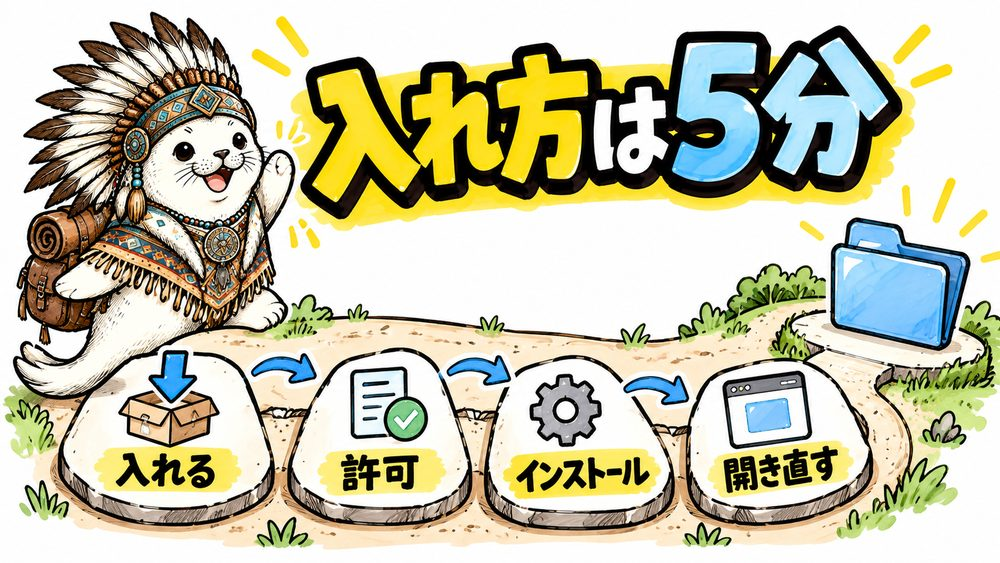
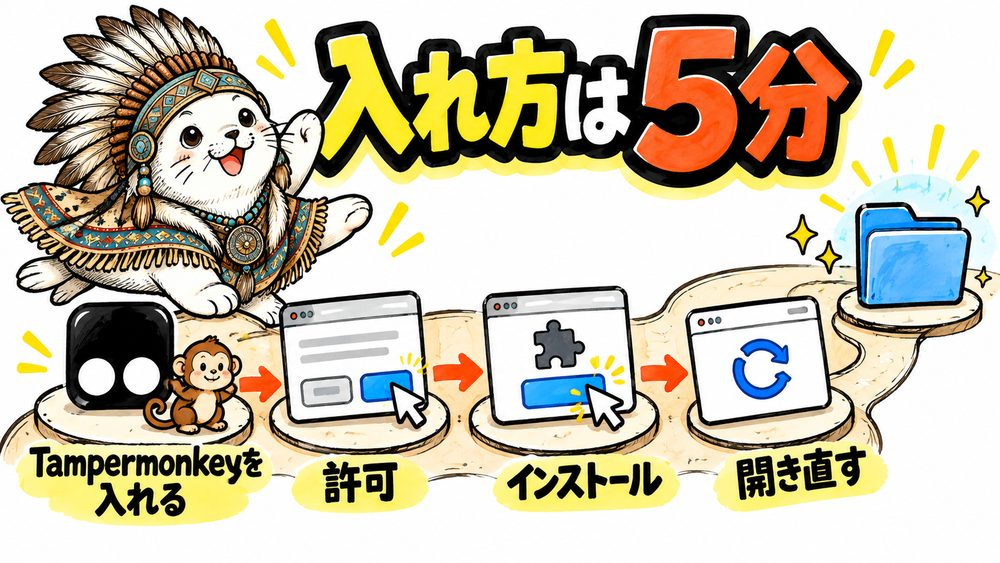
使い方ページ: ストア・詳細・更新ボタンの実写、できること4つの絵、Tampermonkey のロゴ入りの絵、ブラウザの更新の案内を足した

diff --git a/index.html b/index.html
@@ -43,6 +43,7 @@
   th { background: var(--bg); width: 34%; }
   .art { display: block; width: 100%; height: auto; border-radius: 12px; margin: 0 0 16px; }
   .art.top { margin: 20px 0 0; }
+  img.allow.wide { width: 640px; }
   img.allow { width: 380px; max-width: 100%; border: 1px solid var(--line); border-radius: 10px; margin: 8px 0 4px; }
   footer { color: var(--sub); font-size: 12px; text-align: center; padding: 20px 0 40px; }
 </style>
@@ -68,6 +69,7 @@
   <img class="art top" src="img/art_top.jpg" alt="参加チャットが一瞬で見つかる。チャットがフォルダーに吸い込まれていく絵">
   <section id="dekiru">
     <h2>✨ できること</h2>
+    <img class="art" src="img/art_dekiru.jpg" alt="できることは4つ。フォルダー分け・好きな順に並べる・通知の合計・カレンダー登録">
     <ul class="points">
       <li><b>📁 フォルダー分け</b>「AI関係」「地元」「学長・運営」のように、チャットをまとめて置けます</li>
       <li><b>↕ 好きな順に並べる</b>つかんで動かすだけ。フォルダーの順番も入れ替えられます</li>
@@ -79,13 +81,16 @@
   <section id="ireru">
     <h2>🧩 入れ方(5分)</h2>
     <img class="art" src="img/art_flow.jpg" alt="入れる・許可・インストール・開き直すの4手で5分">
-    <p>Chrome の拡張機能「Tampermonkey(タンパーモンキー)」の上で動きます。パソコンの Chrome で進めてください。</p>
+    <p>Chrome の拡張機能「🐒 Tampermonkey(タンパーモンキー)」の上で動きます。パソコンの Chrome で進めてください。</p>
     <ol class="steps">
-      <li><b>Tampermonkey を入れる</b><br>
+      <li><b>🐒 Tampermonkey を入れる</b><br>
+        Chrome ウェブストアは、Chrome に機能を足す「拡張機能」を配っている Google の公式のお店です。<br>
         <a class="btn blue" href="https://chromewebstore.google.com/detail/tampermonkey/dhdgffkkebhmkfjojejmpbldmpobfkfo" target="_blank" rel="noopener">Chrome ウェブストアの Tampermonkey を開く</a><br>
-        「Chrome に追加」を押します。もう入っている人は次へ。</li>
+        右上の青い「Chrome に追加」→「拡張機能を追加」を押します。もう入っている人は「Chrome から削除」と出ているので、次へ。<br>
+        <img class="allow wide" src="img/store.jpg" alt="Chrome ウェブストアの Tampermonkey のページ。右上の青いボタンを赤丸で示す"></li>
       <li><b>Tampermonkey に「ユーザースクリプト」を許可する</b><br>
-        Chrome のアドレス欄に <code>chrome://extensions</code> と入れて開き、Tampermonkey の「詳細」を押します。
+        Chrome のアドレス欄(画面の一番上の、URL が出ている所)に <code>chrome://extensions</code> と打って Enter。拡張機能の一覧で、Tampermonkey の「詳細」を押します。<br>
+        <img class="allow wide" src="img/ext_detail.jpg" alt="拡張機能の一覧。Tampermonkey の詳細ボタンを赤丸で示す"><br>
         「ユーザー スクリプトを許可する」をオンにします。<br>
         <img class="allow" src="img/allow.jpg" alt="Tampermonkey の詳細画面。ユーザー スクリプトを許可するのスイッチを赤丸で示す"><br>
         <span class="note">この項目が無い古い Chrome の場合は、右上の「デベロッパー モード」をオンにします。</span></li>
@@ -93,7 +98,7 @@
         <a class="btn" href="https://raw.githubusercontent.com/yubokumin28/libe-chat-folder/main/libe-chat-folder.user.js">リベ チャット フォルダーをインストール</a><br>
         Tampermonkey の画面が開くので「インストール」を押します。</li>
       <li><b>リベシティを開き直す</b><br>
-        「参加チャット」の一覧の上に、青い「＋ フォルダーを作る」が出たら完了です。</li>
+        リベシティをもう一度開くか、ブラウザの更新ボタン(アドレス欄の左の ↻。キーボードなら F5)を押します。「参加チャット」の一覧の上に、青い「＋ フォルダーを作る」が出たら完了です。</li>
     </ol>
     <p class="note">新しい版は Tampermonkey が自動で取りに来ます。作ったフォルダーは更新しても消えません。</p>
   </section>
@@ -174,7 +179,9 @@
     <h2>🙋 困った時</h2>
     <img class="art" src="img/art_tsumari.jpg" alt="よくある詰まりどころは、許可のし忘れと2つ入れたこと">
     <table>
-      <tr><th>「＋ フォルダーを作る」が出ない</th><td>入れ方の②「ユーザー スクリプトを許可する」がオンか確かめて、リベシティを開き直してください。</td></tr>
+      <tr><th>「＋ フォルダーを作る」が出ない</th><td>入れ方の②「ユーザー スクリプトを許可する」がオンか確かめて、リベシティの画面でブラウザの更新ボタン(↻)を押してください。</td></tr>
+      <tr><th>急に動かない・表示がおかしい</th><td>① <code>chrome://extensions</code> を開き、右上の「デベロッパー モード」をオン → 左上の「更新」を押す(拡張機能が新しい版に入れ替わります) ② リベシティに戻ってブラウザの更新ボタン(↻)を押す。<br>
+        <img class="allow wide" src="img/ext_update.jpg" alt="拡張機能の一覧の上。左上の更新ボタンと右上のデベロッパーモードを赤丸で示す"></td></tr>
       <tr><th>フォルダーに「あと◯件は未読み込み」と出る</th><td>一覧の下の「さらに読み込む」をまだ押していない分です。ツールが自動で押すので、少し待つと揃います。</td></tr>
       <tr><th>カレンダーの日時が違う</th><td>作成画面で直してから保存してください。日付が無い文字は、今日の終日の予定として開きます。</td></tr>
     </table>
